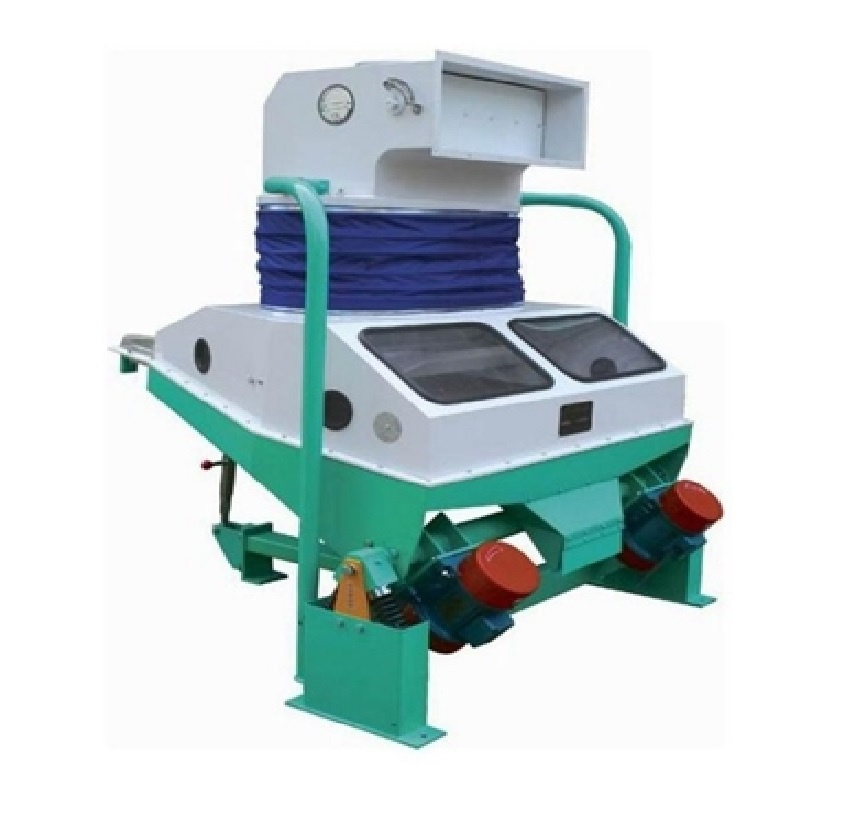
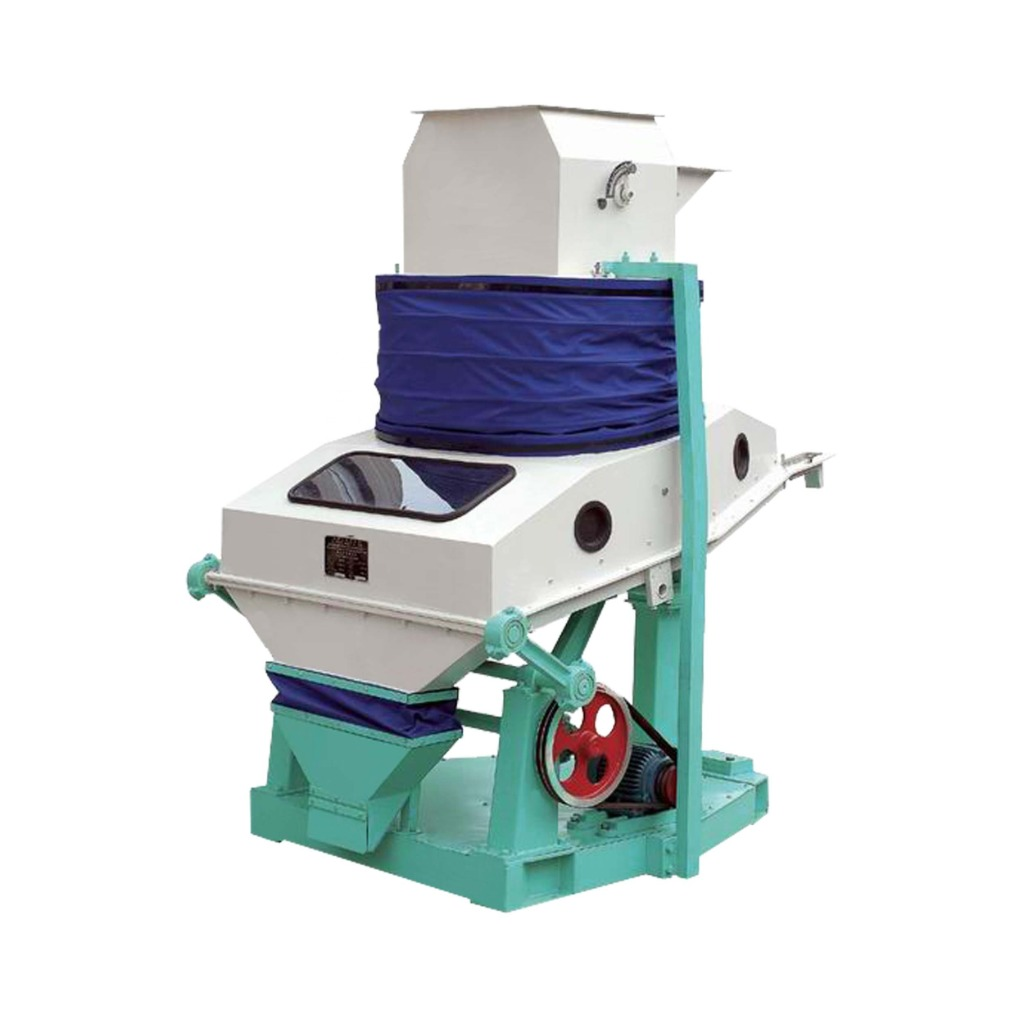
fix: update TQSX85 destoner image, fix WhatsApp sharing gesture/popup blockers, and improve mobile responsiveness

diff --git a/assets/js/app.js b/assets/js/app.js
@@ -655,10 +655,37 @@ Please advise on the official price quotation, stock availability at your Kano w
   }
 
   // --- WHATSAPP PRODUCT SHARING SYSTEM ---
+  const productFilesMap = new Map();
+
+  // Prefetch image files into memory so sharing is 100% synchronous with user gesture (no await lag)
+  const preloadProductFiles = () => {
+    const runner = window.requestIdleCallback || ((cb) => setTimeout(cb, 150));
+    runner(() => {
+      PRODUCTS_DATA.forEach(async (product) => {
+        try {
+          const res = await fetch(product.image);
+          if (res.ok) {
+            const blob = await res.blob();
+            const isPng = product.image.toLowerCase().endsWith(".png");
+            const ext = isPng ? "png" : "jpg";
+            const mimeType = isPng ? "image/png" : "image/jpeg";
+            const file = new File([blob], `${product.id}.${ext}`, { type: mimeType });
+            productFilesMap.set(product.id, file);
+          }
+        } catch (e) {
+          // ignore background prefetch error
+        }
+      });
+    });
+  };
+
   const getProductShareText = (product) => {
-    const baseUrl = window.location.origin.includes("grainmasteragro.com")
-      ? "https://grainmasteragro.com"
-      : window.location.origin;
+    let baseUrl = window.location.origin;
+    if (!baseUrl || baseUrl === "null" || baseUrl.startsWith("file:")) {
+      baseUrl = "https://grainmasteragro.com";
+    } else if (baseUrl.includes("grainmasteragro.com")) {
+      baseUrl = "https://grainmasteragro.com";
+    }
     const productUrl = `${baseUrl}/?product=${encodeURIComponent(product.id)}`;
 
     return `🌾 *${product.name}* (${product.sku})
@@ -677,69 +704,76 @@ ${product.shortDesc}
     if (!product) return;
 
     const shareText = getProductShareText(product);
+    const isMobile = /Android|iPhone|iPad|iPod|BlackBerry|IEMobile|Opera Mini/i.test(navigator.userAgent);
 
-    // Fetch the product image as a blob
-    let file = null;
-    let blob = null;
-    try {
-      const response = await fetch(product.image);
-      if (response.ok) {
-        blob = await response.blob();
-        const isPng = product.image.toLowerCase().endsWith(".png");
-        const ext = isPng ? "png" : "jpg";
-        const mimeType = isPng ? "image/png" : "image/jpeg";
-        file = new File([blob], `${product.id}.${ext}`, { type: mimeType });
+    // 1. Check if the physical image file is already cached in memory
+    let file = productFilesMap.get(productId) || null;
+    if (!file) {
+      try {
+        const response = await fetch(product.image);
+        if (response.ok) {
+          const blob = await response.blob();
+          const isPng = product.image.toLowerCase().endsWith(".png");
+          const ext = isPng ? "png" : "jpg";
+          const mimeType = isPng ? "image/png" : "image/jpeg";
+          file = new File([blob], `${product.id}.${ext}`, { type: mimeType });
+          productFilesMap.set(productId, file);
+        }
+      } catch (e) {
+        console.warn("Could not load image file for share:", e);
       }
-    } catch (err) {
-      console.warn("Could not load image file for sharing:", err);
     }
 
-    // 1. Native Mobile Web Share API: Uploads the physical image directly into WhatsApp
+    // 2. Try native Web Share API with image file attached (Mobile Android / iOS Safari)
     if (file && navigator.canShare && navigator.canShare({ files: [file] })) {
       try {
         await navigator.share({
           files: [file],
           text: shareText
         });
+        return; // User completed share or selected app
+      } catch (err) {
+        if (err.name === "AbortError") return; // User simply dismissed share sheet
+        console.warn("Native file share aborted/unsupported, falling back:", err);
+      }
+    }
+
+    // 3. Try standard Web Share without file (e.g. mobile browsers without file share permission)
+    if (navigator.share) {
+      try {
+        await navigator.share({
+          title: product.name,
+          text: shareText
+        });
         return;
       } catch (err) {
-        if (err.name === "AbortError") return; // User closed share drawer
-        console.warn("Native file share aborted, using web fallback:", err);
+        if (err.name === "AbortError") return;
       }
     }
 
-    // 2. Desktop Fallback (WhatsApp Web):
-    // Copy the image directly to the system clipboard so the user can paste (Ctrl+V) directly into chat
-    if (blob && navigator.clipboard && window.ClipboardItem) {
-      try {
-        const img = new Image();
-        img.src = product.image;
-        await img.decode();
-        const canvas = document.createElement("canvas");
-        canvas.width = img.naturalWidth;
-        canvas.height = img.naturalHeight;
-        const ctx = canvas.getContext("2d");
-        ctx.drawImage(img, 0, 0);
-        canvas.toBlob(async (pngBlob) => {
-          if (pngBlob) {
-            try {
-              await navigator.clipboard.write([
-                new ClipboardItem({ "image/png": pngBlob })
-              ]);
-              showToast("Image copied! Paste (Ctrl+V) into WhatsApp", "fa-clipboard-check");
-            } catch (clipErr) {
-              console.warn("Clipboard write failed:", clipErr);
-            }
-          }
-        }, "image/png");
-      } catch (err) {
-        console.warn("Canvas clipboard processing skipped:", err);
+    // 4. Direct WhatsApp protocol routing (Instant Native WhatsApp on mobile, Web on desktop)
+    const encodedText = encodeURIComponent(shareText);
+    if (isMobile) {
+      // Launch WhatsApp mobile app directly
+      window.location.href = `whatsapp://send?text=${encodedText}`;
+      // Fallback in case native protocol is not caught
+      setTimeout(() => {
+        window.open(`https://api.whatsapp.com/send?text=${encodedText}`, "_blank");
+      }, 700);
+    } else {
+      // Desktop: Open WhatsApp Web
+      const waUrl = `https://web.whatsapp.com/send?text=${encodedText}`;
+      const opened = window.open(waUrl, "_blank");
+      if (!opened) {
+        window.location.href = `https://api.whatsapp.com/send?text=${encodedText}`;
+      }
+      // Copy to clipboard as convenient backup
+      if (navigator.clipboard) {
+        navigator.clipboard.writeText(shareText).then(() => {
+          showToast("Product details copied to clipboard!", "fa-clipboard-check");
+        }).catch(() => {});
       }
     }
-
-    // Direct WhatsApp share URL with concise text & product link
-    const waUrl = `https://api.whatsapp.com/send?text=${encodeURIComponent(shareText)}`;
-    window.open(waUrl, "_blank");
   };
 
   window.appShareToWhatsApp = shareProductToWhatsApp;
@@ -792,10 +826,22 @@ ${product.shortDesc}
     }
   });
 
+  // Responsive search placeholder
+  const updateSearchPlaceholder = () => {
+    if (headerSearchInput) {
+      headerSearchInput.placeholder = window.innerWidth <= 640 
+        ? "Search equipment & spares..." 
+        : "Search grain machines, screens, rubber rollers, color sorter spares...";
+    }
+  };
+  updateSearchPlaceholder();
+  window.addEventListener("resize", updateSearchPlaceholder);
+
   // INITIALIZATION
   updateCartUI();
   populateHorizontalTracks();
   setupScrollButtons();
   renderFilteredProducts();
   checkUrlForProduct();
+  preloadProductFiles();
 });

diff --git a/assets/css/style.css b/assets/css/style.css
@@ -55,6 +55,9 @@
 html {
   scroll-behavior: smooth;
   font-size: 16px;
+  overflow-x: hidden;
+  width: 100%;
+  max-width: 100vw;
 }
 
 body {
@@ -63,6 +66,8 @@ body {
   color: var(--slate-800);
   line-height: 1.6;
   overflow-x: hidden;
+  width: 100%;
+  max-width: 100vw;
   -webkit-font-smoothing: antialiased;
 }
 
@@ -2074,23 +2079,36 @@ button {
     display: none; /* Relocated to floating thumb button on mobile */
   }
 
+  /* Prevent iOS automatic zoom on text inputs */
+  input, select, textarea {
+    font-size: 16px !important;
+  }
+  .search-input-wrapper input {
+    font-size: 16px !important;
+  }
+
   /* Category Navigation Strip on Mobile */
   .category-navbar {
-    padding: 0.3rem 0;
+    padding: 0.35rem 0;
+    -webkit-overflow-scrolling: touch;
+    scrollbar-width: none;
   }
-  .cat-tabs-track {
+  .category-navbar::-webkit-scrollbar {
+    display: none;
+  }
+  .category-nav-list {
     -webkit-overflow-scrolling: touch;
     scroll-snap-type: x proximity;
-    padding: 0.25rem 0.25rem;
+    padding: 0.15rem 0.25rem;
     gap: 0.4rem;
     scrollbar-width: none;
   }
-  .cat-tabs-track::-webkit-scrollbar {
+  .category-nav-list::-webkit-scrollbar {
     display: none;
   }
   .cat-tab-btn {
-    padding: 0.3rem 0.75rem;
-    font-size: 0.76rem;
+    padding: 0.35rem 0.8rem;
+    font-size: 0.78rem;
     gap: 0.35rem;
     white-space: nowrap;
     scroll-snap-align: center;
@@ -2393,7 +2411,12 @@ button {
     font-size: 1.2rem;
     box-shadow: 0 6px 18px rgba(15, 81, 50, 0.45);
     z-index: 2400;
-    transition: transform var(--transition-fast), box-shadow var(--transition-fast);
+    transition: transform var(--transition-fast), opacity var(--transition-fast), box-shadow var(--transition-fast);
+  }
+  .fab-container.active + .mobile-floating-cart-btn {
+    opacity: 0.2;
+    pointer-events: none;
+    transform: scale(0.8);
   }
   .mobile-floating-cart-btn:active {
     transform: scale(0.92);
